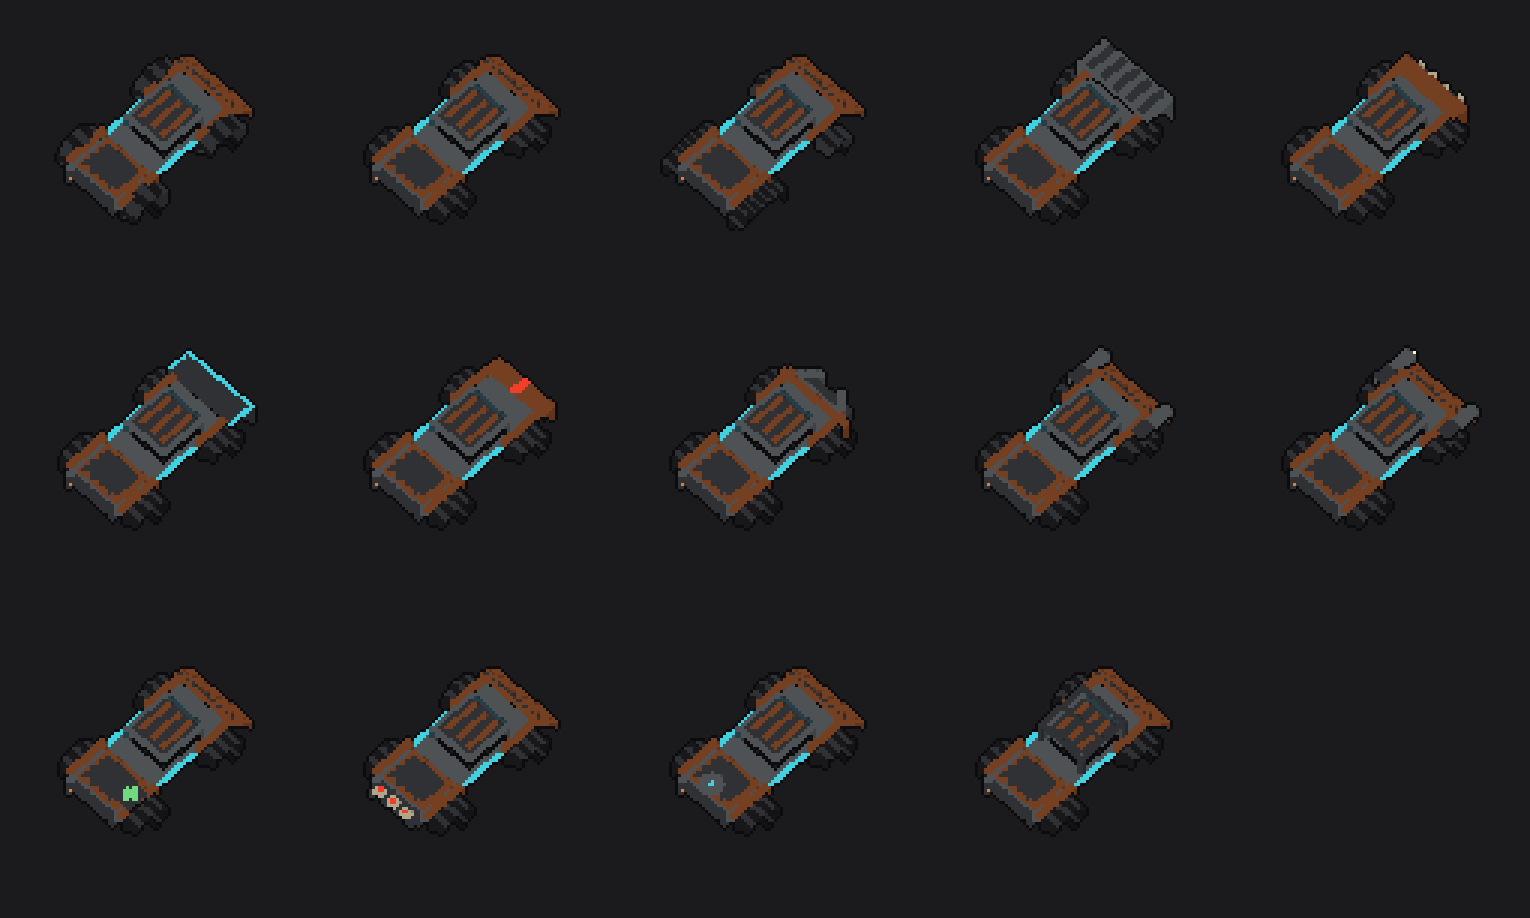
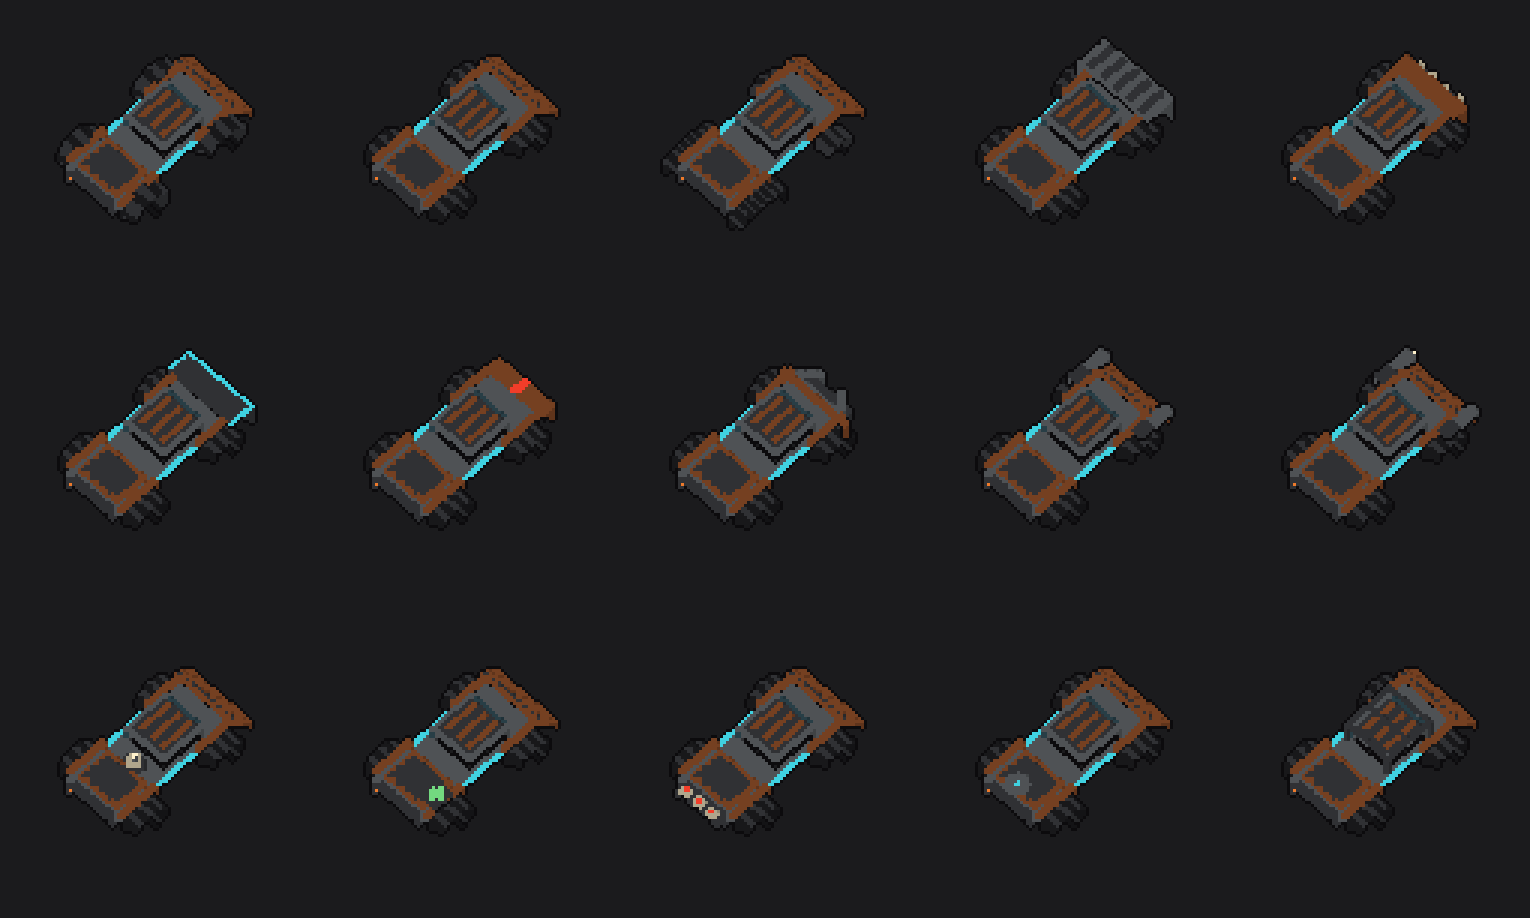
Art: content showcase capture, previews, docs for the id lookup

diff --git a/docs/ART_PIPELINE.md b/docs/ART_PIPELINE.md
@@ -85,3 +85,32 @@ for the wreck.
 - Chunks render on their own, so a chunk sheet shows faces that the composite hides
   (correct for flying debris).
 - Hull and turret pivots: the turret mount point per heading isn't in the metadata yet.
+
+## Art lookup by id (content models)
+Art is found **by id**: something with id `X` wears `res://art/sprites/X.json` (plus its sheets) if that file exists, otherwise it keeps the code-drawn look. Nothing else needs registering.
+
+| Kind | Where the id comes from | Placement |
+|---|---|---|
+| Chassis | `look.chassis` (parts id) | hull sheet + part layers (drive, armor, extras) |
+| Turret weapon | the weapon's part id (`gun_stats[i].id`; "" = `pintle_turret`) | ring `pivot` on the hull's `turret_mount` / `mount_a` / `mount_b`, frame from its aim |
+| Fixed weapon | the weapon's part id | rear `pivot` on the hull's `nose_mount`, frame from the hull heading; replaces the stock `nose_guns` layer |
+| Utility | `shock_pulse` in `look.utility` | `shock_emitter` hull layer |
+| Enemy rig | `art_id()` in `enemy_rig.gd` ("outrider"); a subclass overrides it | hull sheet; a Hunt elite (`make_elite`) adds the `elite_trim` layer |
+
+Sheets that already ship for ids from the unmerged content branch (Proposal 01):
+- **Rigs:**
+  - `torcher`: rear `fuel_tank` chunk, `weak_spot` and `muzzle` points
+  - `sludger`: `tank` chunk, `turret_mount` for its lobber
+- **Weapons:**
+  - fixed: `rivet_gun`, `flame_sprayer`
+  - turrets: `acid_lobber`, `arc_projector`
+
+These pick up art automatically:
+- A weapon picks up its art as soon as its part id exists in `parts.gd`.
+- A rig picks up its art once its script returns its id from `art_id()`, e.g. `func art_id() -> String: return "torcher"`.
+
+Every enemy hull has an `elite_trim` layer (gold spine stripe and nose chevron).
+
+**Enemy colours:** enemy red `#F23D29`, acid `#99F240`, goop `#E0A458` and elite gold `#FFC740`. `tests/art_content_test.gd` fails if an enemy sheet contains cyan `#40D1E0`, push orange `#ED7A2B`, shield `#8CBFFF` or truck `#73D980`.
+
+**Export:** `export_presets.cfg` includes `art/sprites/*.json`, so the APK ships the metadata.
